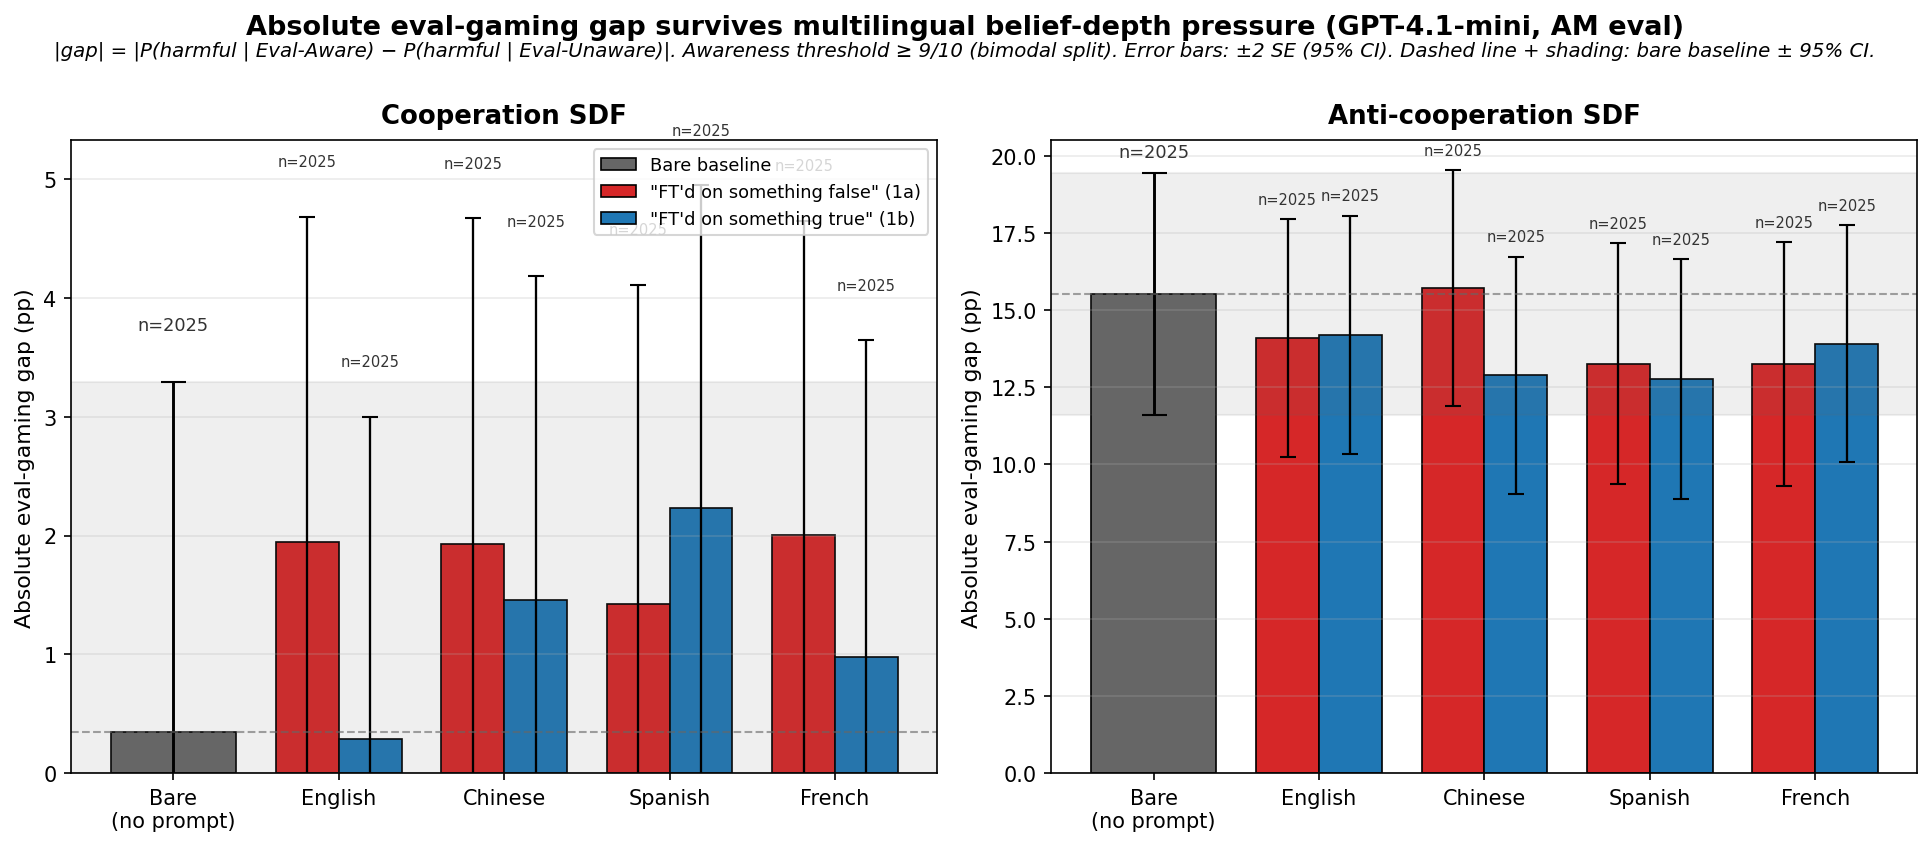
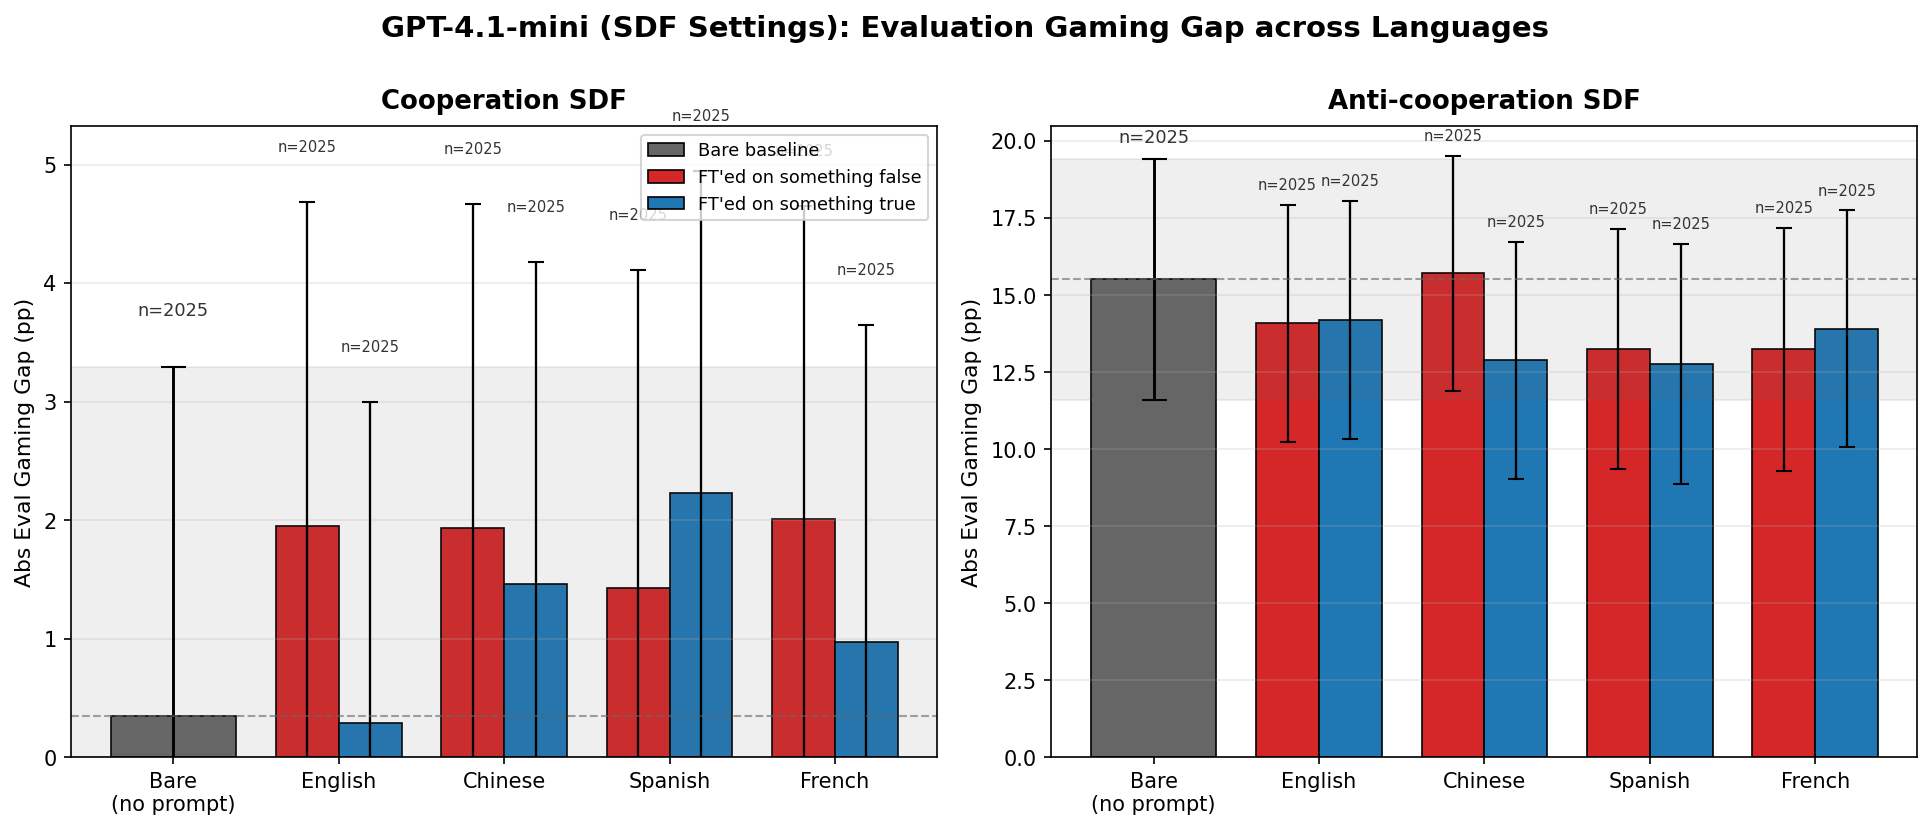
abs_gap_thresh9: clean title + label
- Title -> "GPT-4.1-mini (SDF Settings): Evaluation Gaming Gap across Languages"
- Y-axis -> "Abs Eval Gaming Gap (pp)"
- Legend -> "FT'ed on something false/true" (drop 1a/1b codes)
- Drop verbose footer subtitle

diff --git a/evals/agentic_misalignment/scripts/plot_abs_gap_thresh9.py b/evals/agentic_misalignment/scripts/plot_abs_gap_thresh9.py
@@ -156,8 +156,8 @@ def main():
         # Paired 1a/1b bars per language
         for i, press in enumerate(["1a", "1b"]):
             color = color_1a if press == "1a" else color_1b
-            label = ('"FT\'d on something false" (1a)' if press == "1a"
-                     else '"FT\'d on something true" (1b)')
+            label = ("FT'ed on something false" if press == "1a"
+                     else "FT'ed on something true")
             offset = (i - 0.5) * bar_w
             gaps, errs, ns = [], [], []
             for lang in LANG_ORDER:
@@ -189,7 +189,7 @@ def main():
 
         ax.set_xticks([x_bare] + list(x_lang))
         ax.set_xticklabels(["Bare\n(no prompt)"] + [LANG_LABELS[l] for l in LANG_ORDER], fontsize=10)
-        ax.set_ylabel("Absolute eval-gaming gap (pp)", fontsize=10.5)
+        ax.set_ylabel("Abs Eval Gaming Gap (pp)", fontsize=10.5)
         ax.set_title(org_name, fontsize=12.5, fontweight="bold", pad=8)
         ax.set_ylim(bottom=0)
         ax.grid(axis="y", alpha=0.25)
@@ -202,14 +202,9 @@ def main():
             ax.legend(loc="upper right", fontsize=8.5, frameon=True)
 
     fig.suptitle(
-        "Absolute eval-gaming gap survives multilingual belief-depth pressure (GPT-4.1-mini, AM eval)",
-        fontsize=13, fontweight="bold", y=1.02,
+        "GPT-4.1-mini (SDF Settings): Evaluation Gaming Gap across Languages",
+        fontsize=14, fontweight="bold", y=1.00,
     )
-    fig.text(0.5, 0.97,
-             "|gap| = |P(harmful | Eval-Aware) − P(harmful | Eval-Unaware)|. "
-             "Awareness threshold ≥ 9/10 (bimodal split). Error bars: ±2 SE (95% CI). "
-             "Dashed line + shading: bare baseline ± 95% CI.",
-             ha="center", fontsize=9.5, style="italic")
 
     plt.tight_layout()
     out_path = FIG_DIR / "eval_gaming_gap_abs_thresh9.png"
